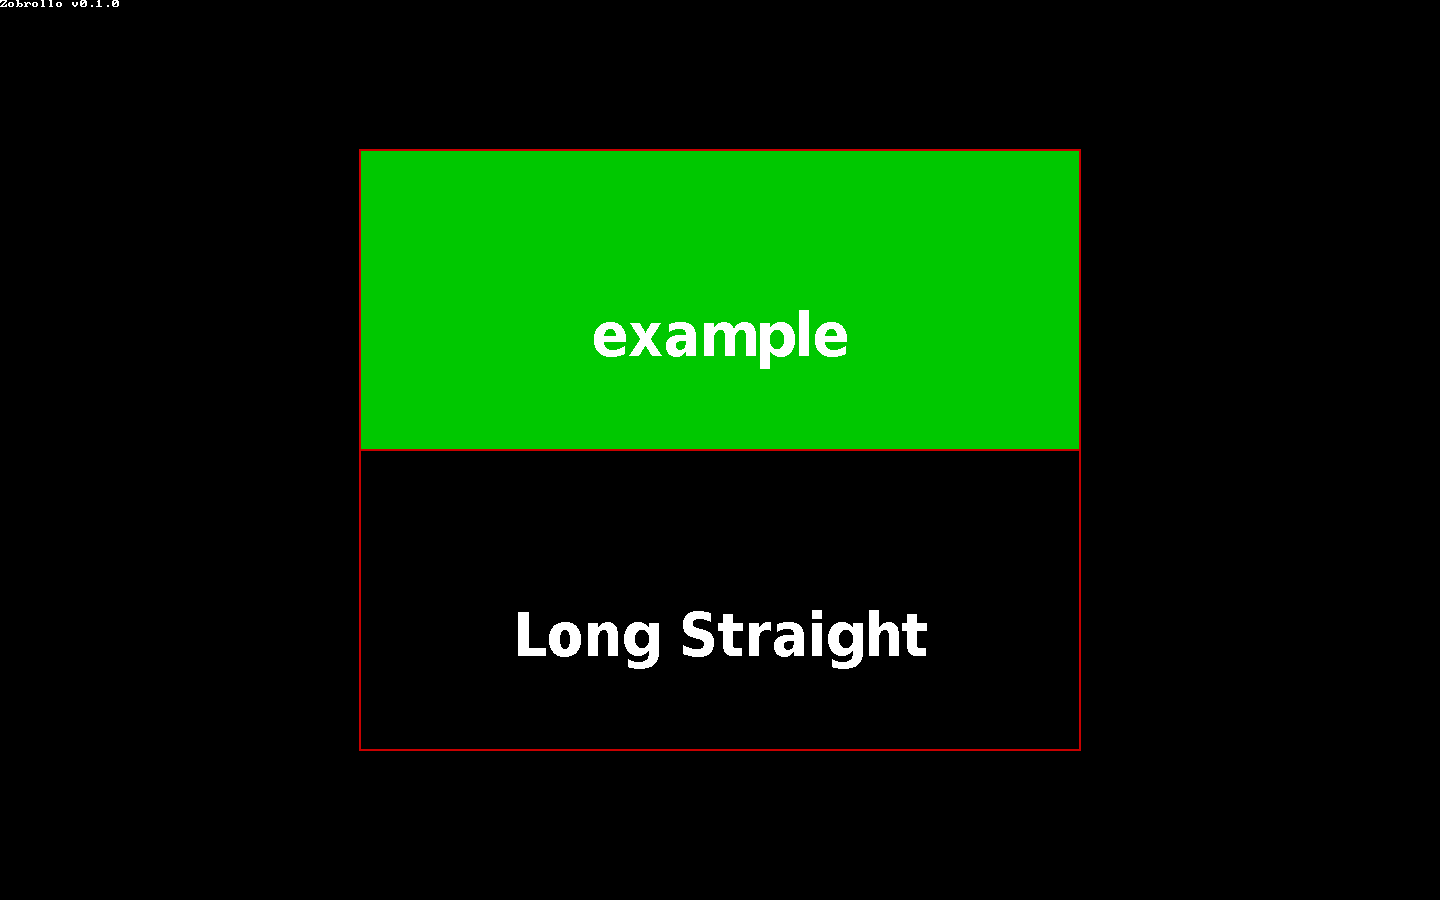
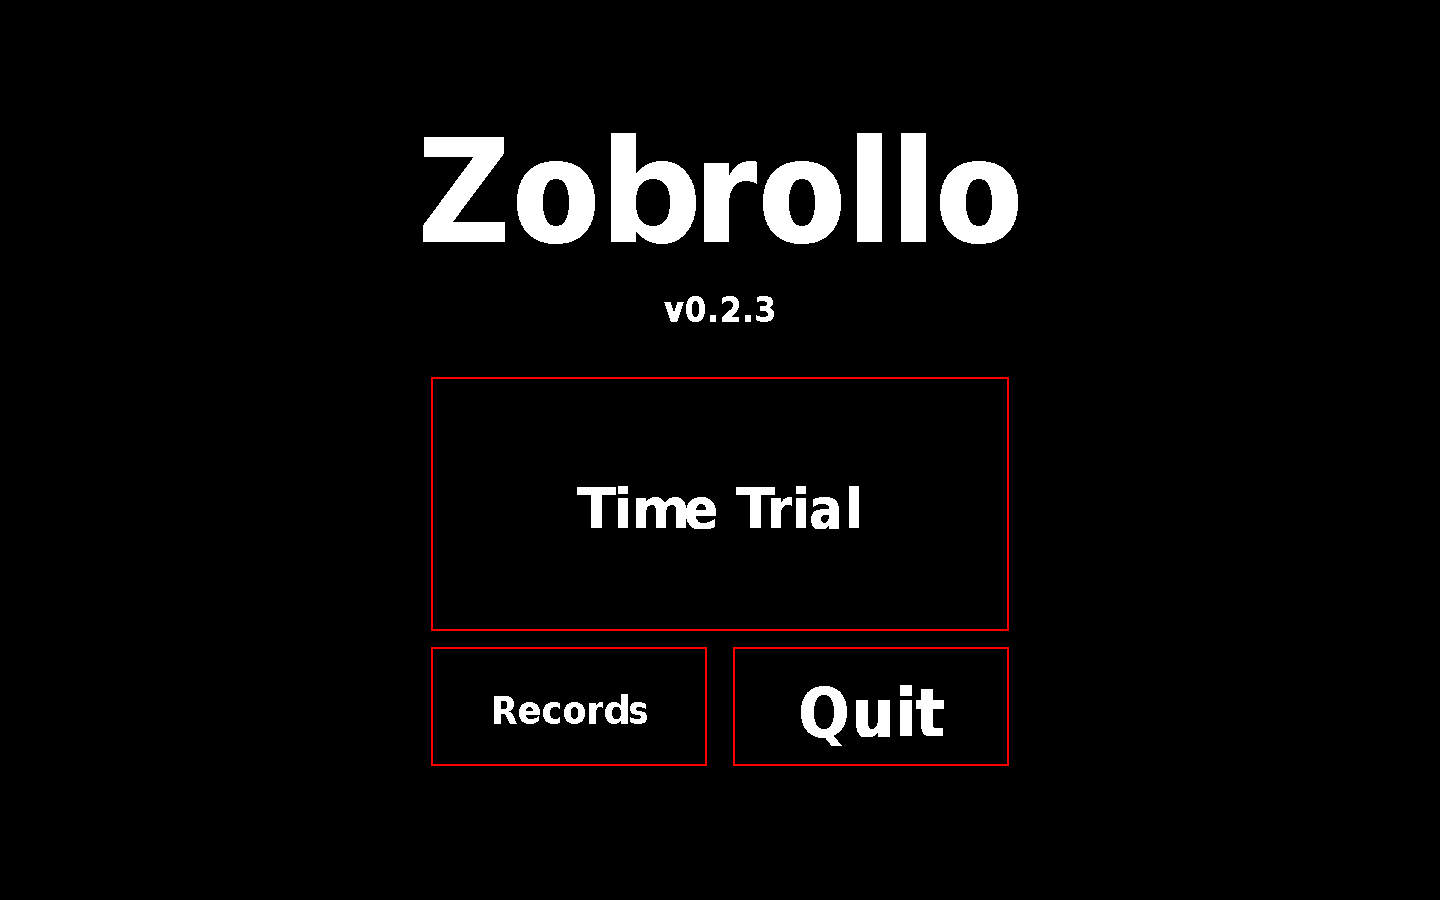
Better gui

diff --git a/src/main.c b/src/main.c
@@ -32,12 +32,13 @@ e-mail:thomas.v.maaren@outlook.com
 #include "config.h"
 #include "misc.h"
 #include "file_paths.h"
-#include "race.h"
-#include "record.h"
 #include "ghost.h"
 #include "gui.h"
+#include "drawtrack.h"
+#include "record.h"
+#include "race.h"
 
-#define version "0.2.2"
+#define version "0.2.3"
 
 #define thickness 2
 
@@ -48,9 +49,9 @@ typedef struct{
 	float y2frac;
 }box_relative;
 
-void dir_menu(CONFIG* config, ALLEGRO_DISPLAY* disp, ALLEGRO_EVENT* event, 
+void track_menu(CONFIG* config, ALLEGRO_DISPLAY* disp, ALLEGRO_EVENT* event, 
 		ALLEGRO_EVENT_QUEUE *queue, char* dir_path, PATHS* paths,
-		void (*click_func)(ALLEGRO_FS_ENTRY *track_file_entry,char* filename,
+		void (*click_func)(TRACK_DATA *track,char* filename,
 			CONFIG* config, ALLEGRO_DISPLAY* disp, PATHS* paths));
 
 void main(){
@@ -190,27 +191,27 @@ void main(){
 			if(mouse_down && !prev_mouse_down)
 				click =true;
 
-			al_draw_text(font, al_map_rgb(255,255,255), 0, 0, 0, "Zobrollo v" version);
-			if(handle_click_box_relative(mouse_state.x, mouse_state.y, 0.1,0.1,0.5,0.9,
-						screen_width,screen_height,&config,"Race!")&&click){
-				dir_menu(&config, disp, &event, queue, data_dir sep_str "tracks",
+
+			draw_text(config.font_name, "Zobrollo", al_map_rgb(255,255,255), 
+					0.5*screen_width, 0.2*screen_height, 0.8*screen_width, 
+					0.3*screen_height);
+			draw_text(config.font_name, "v"version, al_map_rgb(255,255,255), 
+					0.5*screen_width, 0.34*screen_height, 0.15*screen_width, 
+					0.1*screen_height);
+			if(handle_click_box_relative(mouse_state.x, mouse_state.y, 0.3,0.42,0.7,0.70,
+						screen_width,screen_height,&config,"Time Trial")&&click){
+				track_menu(&config, disp, &event, queue, data_dir sep_str "tracks",
 						&paths,race);
 			}
-	/*click_box start_box = {0.1,0.1,0.5,0.9,config.button_border_thickness, config.button_border_color,
-		config.button_select_color, config.button_text_color, "Race!", config.font_name};
-	click_box record_box = {0.5,0.1,0.9,0.5,config.button_border_thickness, config.button_border_color,
-		config.button_select_color, config.button_text_color, "Records", config.font_name};
-	click_box quit_box = {0.5,0.5,0.9,0.9,config.button_border_thickness, config.button_border_color,
-		config.button_select_color, config.button_text_color, "Quit", config.font_name};*/
-			if(handle_click_box_relative(mouse_state.x, mouse_state.y,0.5,0.1,0.9,0.5,
+			if(handle_click_box_relative(mouse_state.x, mouse_state.y,0.3,0.72,0.49,0.85,
 						screen_width, screen_height, &config, "Records")&&
 					click){
 				
-				dir_menu(&config, disp, &event, queue, paths.record,&paths, 
+				track_menu(&config, disp, &event, queue, data_dir sep_str "tracks",&paths, 
 						show_record);
 
 			}
-			if(handle_click_box_relative(mouse_state.x, mouse_state.y,0.5,0.5,0.9,0.9,
+			if(handle_click_box_relative(mouse_state.x, mouse_state.y,0.51,0.72,0.7,0.85,
 						screen_width, screen_height, &config, "Quit")&&
 					click){
 				exit(1);
@@ -226,9 +227,9 @@ void main(){
 
 
 //Every filein the specified directory is an item in this menu
-void dir_menu(CONFIG* config, ALLEGRO_DISPLAY* disp, ALLEGRO_EVENT* event, 
+void track_menu(CONFIG* config, ALLEGRO_DISPLAY* disp, ALLEGRO_EVENT* event, 
 		ALLEGRO_EVENT_QUEUE *queue, char* dir_path, PATHS* paths,
-		void (*click_func)(ALLEGRO_FS_ENTRY *track_file_entry,char* filename,
+		void (*click_func)(TRACK_DATA *track,char* filename,
 			CONFIG* config, ALLEGRO_DISPLAY* disp, PATHS* paths)){
 
 	/*true: In the previuous frame the mouse was down
@@ -265,13 +266,17 @@ void dir_menu(CONFIG* config, ALLEGRO_DISPLAY* disp, ALLEGRO_EVENT* event,
 
 	}
 	box_relative file_box[am_files];
+	TRACK_DATA tracks[am_files];
 	int i=0;
 	while(i<am_files){
+		ALLEGRO_FILE* track_file = al_open_fs_entry(files[i],"r");
+		loadtrack(track_file, tracks+i);
+		al_fclose(track_file);
 		float y_centre = 1/(float)(am_files+1)*(i+1);
 		file_box[i].x1frac = 0.25;
 		file_box[i].x2frac = 0.75;
-		file_box[i].y1frac = (float)y_centre-1/(float)(am_files+1)/2;
-		file_box[i].y2frac = (float)y_centre+1/(float)(am_files+1)/2;
+		file_box[i].y1frac = (float)y_centre-0.9/(float)(am_files+1)/2;
+		file_box[i].y2frac = (float)y_centre+0.9/(float)(am_files+1)/2;
 		
 		i++;
 	}
@@ -337,14 +342,45 @@ void dir_menu(CONFIG* config, ALLEGRO_DISPLAY* disp, ALLEGRO_EVENT* event,
 			al_draw_text(font, al_map_rgb(255,255,255), 0, 0, 0, "Zobrollo v" version);
 			i=0;
 			while(i<am_files){
+
 				_Bool mouse_in_box = handle_click_box_relative(mouse_state.x,
 						mouse_state.y, file_box[i].x1frac,
 						file_box[i].y1frac,file_box[i].x2frac,
 						file_box[i].y2frac, screen_width, 
-						screen_height, config, file_names[i]);
+						screen_height, config, " "/*file_names[i]*/);
+
+				//draw contents of the box
+				float box_width =file_box[i].x2frac-file_box[i].x1frac;
+				float box_height =file_box[i].y2frac-file_box[i].y1frac;
+				float track_x1=(box_width*0.1+file_box[i].x1frac)*screen_width;
+				float track_y1=(box_height*0.1+file_box[i].y1frac)*screen_height;
+				float track_x2=(box_width*0.9+file_box[i].x1frac)*screen_width;
+				float track_y2=(box_height*0.6+file_box[i].y1frac)*screen_height;
+				al_draw_rectangle(track_x1,track_y1,track_x2,track_y2,
+						config->button_border_color, 
+						config->button_border_thickness);
+				al_draw_filled_rectangle(
+						track_x1+config->button_border_thickness/2,
+						track_y1+config->button_border_thickness/2,
+						track_x2-config->button_border_thickness/2,
+						track_y2-config->button_border_thickness/2,
+						al_map_rgb(0,0,0));
+						
+				drawmap(track_x1,track_y1,track_x2,track_y2,
+						NULL, tracks+i);
+				draw_text(config->font_name, file_names[i], 
+						config->button_text_color,
+						(box_width*0.5+file_box[i].x1frac)*screen_width,
+						(box_height*0.8+file_box[i].y1frac)*screen_height,
+						box_width*0.8*screen_width,
+						box_height*0.2*screen_height);
+						
+						
+
+
 				if(mouse_in_box && click){
 
-					click_func(files[i], file_names[i], config, disp, paths);
+					click_func(tracks+i, file_names[i], config, disp, paths);
 					back_from_race=true;
 					al_flush_event_queue(queue);
 					break;

diff --git a/src/drawframe.c b/src/drawframe.c
@@ -9,32 +9,16 @@
 
 #include <math.h>
 
-void drawmap(int am_karts,kart_t *karts//0th element is seen as main kart
+void drawmap_with_karts(int am_karts,kart_t *karts//0th element is seen as main kart
 		,float min_x //relative to the middle of the screen
 		,float min_y //relative to the middle of the screen
 		,float max_x //relative to the middle of the screen
 		,float max_y //relative to the middle of the screen
 		,TRACK_DATA* track, CONFIG* config){
-	float scale=(max_x-min_x)/(track->max_min[track_max_x]-track->max_min[track_min_x]);
-	if((max_y-min_y)/(track->max_min[track_min_y] - track->max_min[track_max_y])<scale)
-		scale=(max_y-min_y)/(track->max_min[track_min_y] - track->max_min[track_max_y]);
-
-
-	float midx = (min_x+max_x)/2;
-	float midy = (min_y+max_y)/2;
 	ALLEGRO_TRANSFORM transform;
-	al_identity_transform(&transform);
-	al_translate_transform(&transform, 
-			-(track->max_min[track_min_x] + track->max_min[track_max_x])/2, 
-			-(track->max_min[track_min_y] + track->max_min[track_max_y])/2);
-	al_scale_transform(&transform, scale,scale);
-	al_translate_transform(&transform, midx,midy);
-	al_use_transform(&transform);
-	drawtrack(track,scale);
+	drawmap(min_x, min_y, max_x, max_y, &transform, track);
 	
 	//draw the dot that represents the player
-	ALLEGRO_TRANSFORM identity;
-	al_identity_transform(&identity);
 
 	int i =0;
 	while(i<am_karts){
@@ -43,13 +27,11 @@ void drawmap(int am_karts,kart_t *karts//0th element is seen as main kart
 		float doty=karts[i].y;
 		al_transform_coordinates(&transform, &dotx, &doty);
 		
-		al_use_transform(&identity);
-
 		al_draw_filled_circle(dotx, doty, 3, karts[i].color);
 		i++;
 	}
 }
-
+	
 
 void drawframe(int am_karts,kart_t *karts//0th element is seen as main kart
 		, float scale, int screen_width, int screen_height, TRACK_DATA* track,
@@ -88,7 +70,7 @@ void drawframe(int am_karts,kart_t *karts//0th element is seen as main kart
 	al_use_transform(&transform);
 	//display the map
 	if(config->show_map)
-		drawmap(am_karts, karts, 3*screen_width/4, screen_height/2, screen_width, 
+		drawmap_with_karts(am_karts, karts, 3*screen_width/4, screen_height/2, screen_width, 
 				screen_height,  track,config);
 		
 }

diff --git a/src/race.c b/src/race.c
@@ -51,7 +51,7 @@ int GetCurSegment(float x, float y, float* track_angle, int cur_segment, TRACK_D
 float InInterval(float a);//Have angle between -pi and pi
 void SaveRace(float *buf, int am_frames, FILE *save_file, float fps);//Saves the race in a file
 
-void race(ALLEGRO_FS_ENTRY *track_file_entry, char* filename, CONFIG* config, 
+void race(TRACK_DATA *track, char* filename, CONFIG* config, 
 		ALLEGRO_DISPLAY* disp, PATHS *paths){
 
 	
@@ -88,18 +88,6 @@ void race(ALLEGRO_FS_ENTRY *track_file_entry, char* filename, CONFIG* config,
 	unsigned char key[ALLEGRO_KEY_MAX];
 	memset(key, 0, sizeof(key));
 	
-	TRACK_DATA track;
-	
-	ALLEGRO_FILE* track_file = al_open_fs_entry(track_file_entry, "r");
-	if(!track_file){
-		fprintf(stderr, "Could not open track file\n");
-		return;
-	}
-
-
-	loadtrack(track_file, &track);
-	al_fclose(track_file);
-
 	int frame = 0;
 	int ghost_buf_len = 10;
 	float* ghost_buf = malloc(sizeof(float)*ghost_buf_len);
@@ -267,11 +255,11 @@ void race(ALLEGRO_FS_ENTRY *track_file_entry, char* filename, CONFIG* config,
 				float new_y_pos=karts[0].y+sin(karts[0].angle)*v/config->fps;
 
 				int new_cur_segment=get_cur_segment(new_x_pos, new_y_pos,
-						&track_angle, cur_segment, &track);
+						&track_angle, cur_segment, track);
 				if(new_cur_segment!=-1){
 					
-					if(mode==PLAYING&&max_segment==track.n_segments-1 && 
-							cur_segment==track.n_segments-1 && 
+					if(mode==PLAYING&&max_segment==track->n_segments-1 && 
+							cur_segment==track->n_segments-1 && 
 							new_cur_segment==0){
 						lap++;
 						if(lap>config->laps){
@@ -430,7 +418,7 @@ void race(ALLEGRO_FS_ENTRY *track_file_entry, char* filename, CONFIG* config,
 				karts[1].y=record_ghost_buf[frame*3+2];
 				n_karts=2;
 			}
-			drawframe(n_karts, karts, scale,screen_width,screen_height,&track, track_angle, 
+			drawframe(n_karts, karts, scale,screen_width,screen_height,track, track_angle, 
 					config);
 			//Draw hearts
 			if(config->show_hearts){

diff --git a/src/drawtrack.c b/src/drawtrack.c
@@ -629,4 +629,36 @@ int get_cur_segment(float x, float y, float* track_angle, int cur_segment, TRACK
 	}
 	return(cur_segment);
 }
+void drawmap(float min_x //relative to the middle of the screen
+		,float min_y //relative to the middle of the screen
+		,float max_x //relative to the middle of the screen
+		,float max_y //relative to the middle of the screen
+		,ALLEGRO_TRANSFORM* transform//returns the transformation it used
+		,TRACK_DATA* track){
+	float scale=(max_x-min_x)/(track->max_min[track_max_x]-track->max_min[track_min_x]);
+	if((max_y-min_y)/(track->max_min[track_min_y] - track->max_min[track_max_y])<scale)
+		scale=(max_y-min_y)/(track->max_min[track_min_y] - track->max_min[track_max_y]);
+
+
+	float midx = (min_x+max_x)/2;
+	float midy = (min_y+max_y)/2;
+	_Bool transform_is_null = false;
+	if(!transform){
+		transform_is_null=true;
+		transform=malloc(sizeof(ALLEGRO_TRANSFORM));
+	}
+	al_identity_transform(transform);
+	al_translate_transform(transform, 
+			-(track->max_min[track_min_x] + track->max_min[track_max_x])/2, 
+			-(track->max_min[track_min_y] + track->max_min[track_max_y])/2);
+	al_scale_transform(transform, scale,scale);
+	al_translate_transform(transform, midx,midy);
+	al_use_transform(transform);
+	drawtrack(track,scale);
+	ALLEGRO_TRANSFORM identity;
+	al_identity_transform(&identity);
+	al_use_transform(&identity);
+	if(transform_is_null)free(transform);
+	
+}
 // vim: cc=100

diff --git a/src/record.c b/src/record.c
@@ -5,10 +5,11 @@
 
 #include "file_paths.h"
 #include "config.h"
-#include "record.h"
 #include "misc.h"
 #include "gui.h"
 #include "ghost.h"
+#include "drawtrack.h"
+#include "record.h"
 
 char * TimeToString(double  secs){
 	int milsecs  = (int)(secs*1000);
@@ -52,7 +53,7 @@ int load_record(ALLEGRO_FILE* file, record** records,
 }
 
 
-void show_record(ALLEGRO_FS_ENTRY *record_file_entry, char* filename, CONFIG* config,
+void show_record(TRACK_DATA* track, char* filename, CONFIG* config,
 		ALLEGRO_DISPLAY* disp, PATHS* paths){
 	
 	ALLEGRO_EVENT_QUEUE* queue = al_create_event_queue();
@@ -68,7 +69,9 @@ void show_record(ALLEGRO_FS_ENTRY *record_file_entry, char* filename, CONFIG* co
 	 *false:The mouse is up*/
 	_Bool prev_mouse_down = true;
 
-	ALLEGRO_FILE* file = al_open_fs_entry(record_file_entry, "r");
+	al_change_directory(paths->record);
+	ALLEGRO_FILE* file = al_fopen(filename, "r");
+	al_change_directory(paths->data);
 	record* records;
 	int am_records = load_record(file, &records, true);
 

diff --git a/src/drawtrack.h b/src/drawtrack.h
@@ -57,4 +57,10 @@ void drawtrack(TRACK_DATA *track_data, float scale);
 void loadtrack(ALLEGRO_FILE* file, TRACK_DATA* track_data);
 void cart2pol(float x, float y, float *angle, float *dist);
 int get_cur_segment(float x, float y, float* track_angle, int cur_segment, TRACK_DATA *track_data);
+void drawmap(float min_x //relative to the middle of the screen
+		,float min_y //relative to the middle of the screen
+		,float max_x //relative to the middle of the screen
+		,float max_y //relative to the middle of the screen
+		,ALLEGRO_TRANSFORM* transform//returns the transformation it used
+		,TRACK_DATA* track);
 // vim: cc=100

diff --git a/src/record.h b/src/record.h
@@ -11,6 +11,6 @@ int compare_record(const void* a, const void* b);//Function used by sort functio
 int load_record(ALLEGRO_FILE* file, record** records, 
 		_Bool ret_date /*when false will read only time not date*/);
 
-void show_record(ALLEGRO_FS_ENTRY *record_file_entry, char* filename, CONFIG* config,
+void show_record(TRACK_DATA* track, char* filename, CONFIG* config,
 		ALLEGRO_DISPLAY* disp, PATHS* paths);
 // vim: cc=100

diff --git a/src/gui.c b/src/gui.c
@@ -43,8 +43,8 @@ void draw_text(const char* name, char* text, ALLEGRO_COLOR color, float x,
 		float y, int max_width, int max_height){
 	int text_len = strlen(text);
 	float width_height;
-	if(max_width>max_height)
-		width_height = max_width/strlen(text);
+	if(max_width/strlen(text)>max_height)
+		width_height = max_height;
 	else
 		width_height = max_width/strlen(text);
 		//only reload if the size of the window has changed

diff --git a/src/race.h b/src/race.h
@@ -1,3 +1,3 @@
-void race(ALLEGRO_FS_ENTRY *track_file_entry, char* filename, CONFIG* config, 
-		ALLEGRO_DISPLAY* disp, PATHS* paths);
+void race(TRACK_DATA *track, char* filename, CONFIG* config, 
+		ALLEGRO_DISPLAY* disp, PATHS *paths);
 // vim: cc=100
